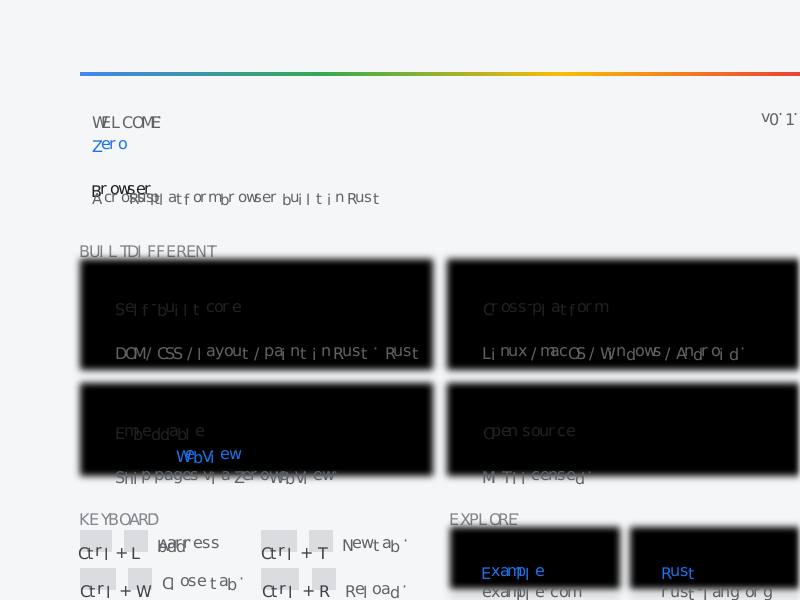
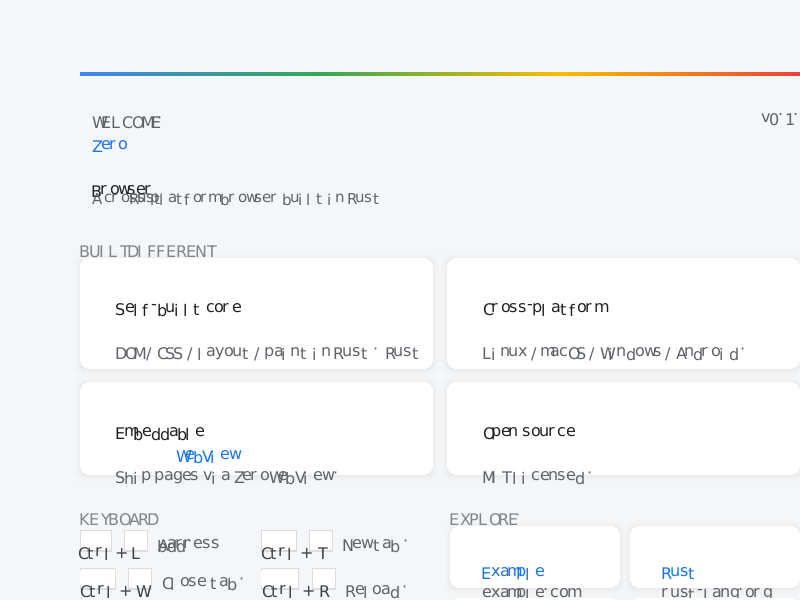
fix(engine): border-radius 背景在 draw_order 模式被丢弃（paint_background 绕过 add_rounded_rect）
paint_background 对圆角背景直接 `primitives.rounded_rects.push()`，绕过 `add_rounded_rect`
（后者才记录 DrawOp::RoundedRect）。draw_order 是 R155 起的默认渲染路径，无 DrawOp 的
rounded_rect 被丢弃 → 任何带 border-radius 的元素背景都不绘制（显示底层背景）。
DC-13 welcome.html 卡片（border-radius:10px）白底消失是主因之一。

修复：改用 `primitives.add_rounded_rect()` 记录 DrawOp。全仓库仅此一处绕过 add_* 的 push。

验证：border-radius 元素背景探针（was body-bg 透显）→ 正确白底；welcome.html 差距
50.45%→26.15%（DC-13 重大进展）；reftest 434/490 持平零回归（test+ref 同病同愈）；
make test 12186/0（+1 rounded_rect draw_order 测试）；clippy/fmt clean。

diff --git a/crates/render-foundation/src/cpu/tests.rs b/crates/render-foundation/src/cpu/tests.rs
@@ -144,6 +144,35 @@ fn gradient_linear_red_to_blue() {
     );
 }
 
+/// 圆角矩形背景必须通过 draw_order 渲染（`add_rounded_rect` 记录 `DrawOp::RoundedRect`）。
+///
+/// 回归测试：`paint_background` 此前直接 `rounded_rects.push()` 绕过 `add_rounded_rect`，
+/// 导致 draw_order（默认渲染路径）丢弃圆角背景——任何带 border-radius 的元素背景都
+/// 不绘制（DC-13 welcome.html 卡片白底消失，welcome 差距 50.45%→26.15% 的主因之一）。
+/// 修复后通过 `add_rounded_rect` 记录 DrawOp，圆角背景在 draw_order 模式下正常渲染。
+#[test]
+fn rounded_rect_renders_via_draw_order() {
+    let mut primitives = RenderPrimitives::new();
+    primitives.add_rounded_rect(RoundedRectPrimitive {
+        rect: Rect::new(0.0, 0.0, 40.0, 40.0),
+        color: Color::RED,
+        top_left_radius: 8.0,
+        top_right_radius: 8.0,
+        bottom_right_radius: 8.0,
+        bottom_left_radius: 8.0,
+    });
+    let font_loader = FontLoader::new();
+    let mut glyph_cache = GlyphCache::new(64);
+    let fb = render_full_scene(40, 40, 1.0, &primitives, &font_loader, &mut glyph_cache, None, &[], &[]);
+    // 中心像素（远离圆角）应为红色——若 draw_order 丢弃 rounded_rect 则为透明/黑
+    let center = fb.get_pixel(20, 20);
+    assert!(
+        center[0] > 200,
+        "rounded_rect center should be red via draw_order, got {:?}",
+        center
+    );
+}
+
 #[test]
 fn gradient_radial_center_to_edge() {
     let mut primitives = RenderPrimitives::new();

diff --git a/crates/engine/src/paint/painter/mod.rs b/crates/engine/src/paint/painter/mod.rs
@@ -1097,8 +1097,9 @@ impl Painter {
                 color_value_to_render(&style.background_color),
             );
         } else {
-            // 圆角矩形：生成 RoundedRectPrimitive
-            self.primitives.rounded_rects.push(RoundedRectPrimitive {
+            // 圆角矩形：通过 add_rounded_rect 记录 DrawOp（draw_order 是默认渲染路径，
+            // 直接 push 到 rounded_rects 会绕过 DrawOp 记录导致圆角背景被丢弃）。
+            self.primitives.add_rounded_rect(RoundedRectPrimitive {
                 rect: Rect::new(clip_x, clip_y, clip_w, clip_h),
                 color: color_value_to_render(&style.background_color),
                 top_left_radius: radii.top_left,
